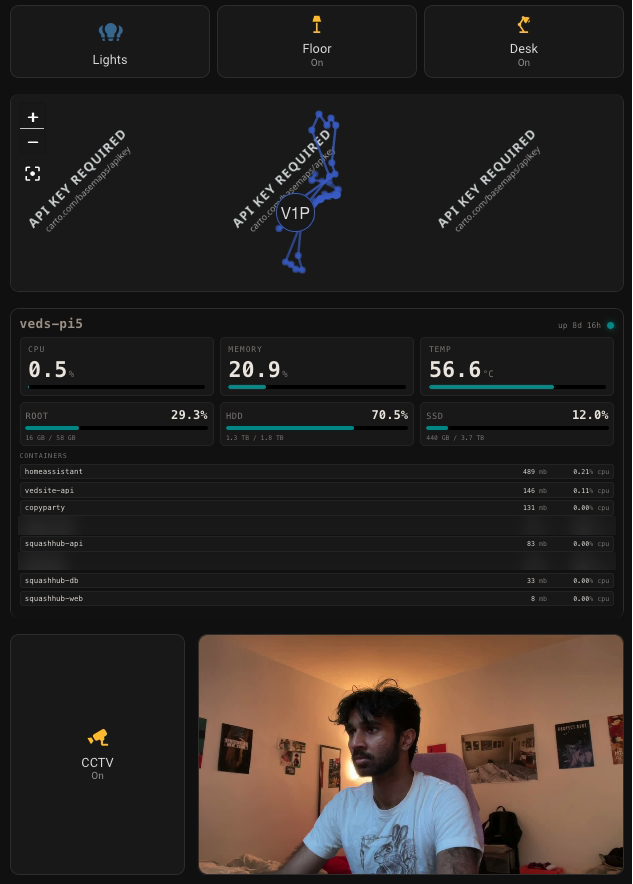
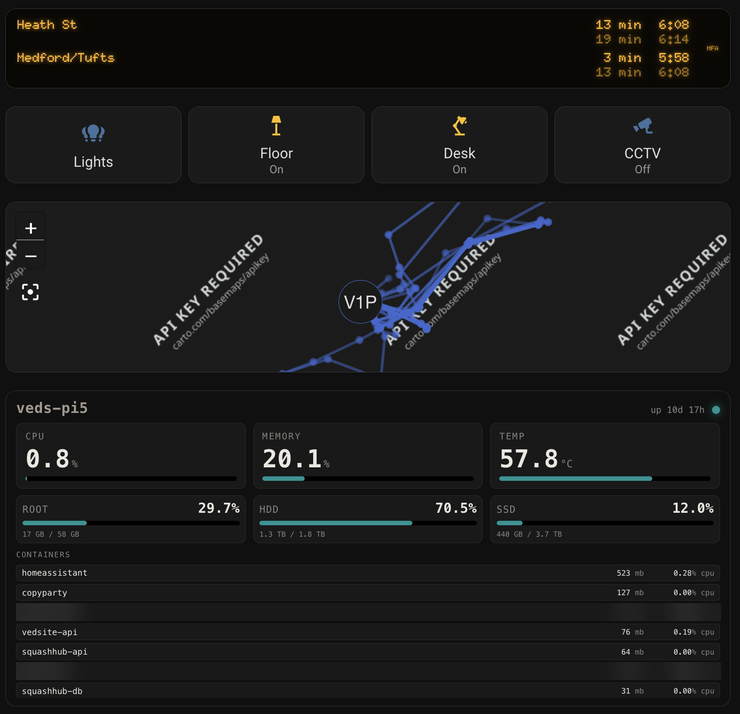
homeassistant: phone dashboard screenshot with the transit sign; sw cache v14

diff --git a/projects/homeassistant.html b/projects/homeassistant.html
@@ -201,7 +201,7 @@
                     dashboard's stored JSON directly, with Home Assistant stopped, using a short Python script.
                 </p>
                 <div class="screenshot-pair">
-                    <img class="screenshot" src="../media/homeassistant/phone.png" alt="The single-column phone dashboard with the lights, map, homelab panel and live CCTV feed">
+                    <img class="screenshot" src="../media/homeassistant/phone.png" alt="The single-column phone dashboard with the transit sign, the lights and CCTV switch, the map and the homelab panel">
                 </div>
             </section>
 

diff --git a/sw.js b/sw.js
@@ -1,4 +1,4 @@
-const CACHE_NAME = 'vedsite-v13';
+const CACHE_NAME = 'vedsite-v14';
 
 const STATIC_ASSETS = [
   '/',
